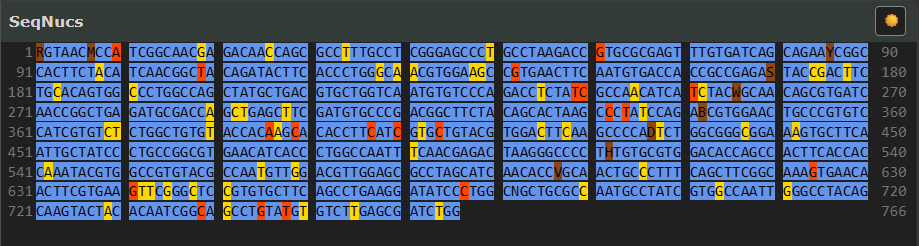
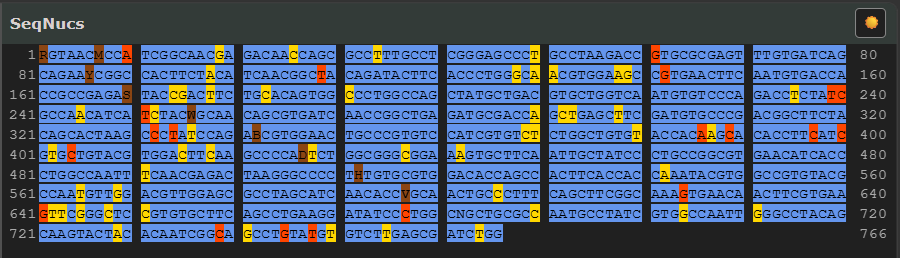
Sharpening nucleotide text rendering in seqnucs.

diff --git a/examples/react/src/SeqNucsComponent.jsx b/examples/react/src/SeqNucsComponent.jsx
@@ -7,7 +7,7 @@ export const LIGHT_COLORS = {
     high:      'CornflowerBlue',
     mutation:  'SaddleBrown',
     text:      '#000',
-    numText:   '#555',
+    numText:   '#111',
     selection: '#fff',
 };
 
@@ -17,7 +17,7 @@ export const DARK_COLORS = {
     high:      'CornflowerBlue',
     mutation:  'SaddleBrown',
     text:      '#000',
-    numText:   '#777',
+    numText:   '#aaa',
     selection: '#fff',
 };
 

diff --git a/examples/vanilla/example.js b/examples/vanilla/example.js
@@ -22,7 +22,7 @@ const LIGHT_COLORS = {
     high:      'CornflowerBlue',
     mutation:  'SaddleBrown',
     text:      '#000',
-    numText:   '#555',
+    numText:   '#111',
     selection: '#fff',
 };
 
@@ -32,7 +32,7 @@ const DARK_COLORS = {
     high:      'CornflowerBlue',
     mutation:  'SaddleBrown',
     text:      '#000',
-    numText:   '#777',
+    numText:   '#aaa',
     selection: '#fff',
 };
 

diff --git a/lib/seqnucs.js b/lib/seqnucs.js
@@ -1,1 +1,1 @@
[2 lines of base64/hex data omitted]